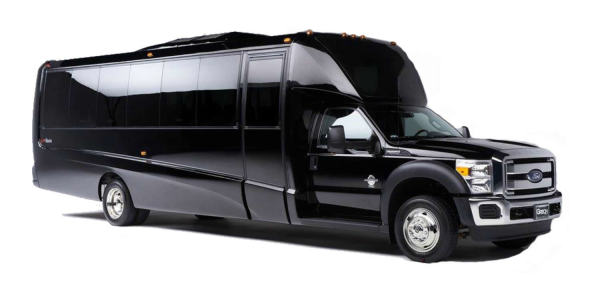
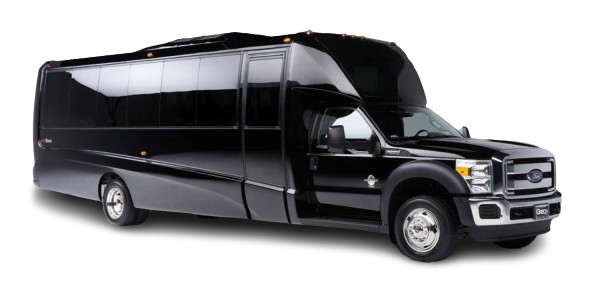
koko

diff --git a/utils/index.ts b/utils/index.ts
@@ -26,39 +26,34 @@ export default imageByIndex;
 export const vehicles: any[] = [
   {
     image:
-      "https://res.cloudinary.com/dxvf93ovn/image/upload/v1710453826/alexlimoimg/bus_car_q3cdv1.png",
+      "https://res.cloudinary.com/dxvf93ovn/image/upload/v1710473579/alexlimoimg/bus_car_mf08ez.png",
     name: "22 Passenger Executive Minibus",
     passengers: 22,
     bags: 22,
-    // price: 180.14,
     price: "Request a Quote",
   },
   {
     image:
-      // "https://res.cloudinary.com/dxvf93ovn/image/upload/v1706929860/lincolnNavigator_io4nn6.png",
-      "https://res.cloudinary.com/dxvf93ovn/image/upload/v1710454351/alexlimoimg/lincolnNavigator_vl4zhw.jpg",
+      "https://res.cloudinary.com/dxvf93ovn/image/upload/v1710473805/alexlimoimg/lincolnNavigator_zcvthv.png",
     name: "Cadillac Escalade ESV",
     passengers: 6,
     bags: 6,
-    // price: 180.14,
     price: "Request a Quote",
   },
   {
     image:
-      "https://res.cloudinary.com/dxvf93ovn/image/upload/v1710441887/alexlimoimg/5bc458ebc897c_nmcpgs.jpg",
+      "https://res.cloudinary.com/dxvf93ovn/image/upload/v1710473700/alexlimoimg/cadillacxts_erdtsh.png",
     name: "Cadillac XTS",
     passengers: 2,
     bags: 3,
-    // price: 180.14,
     price: "Request a Quote",
   },
   {
     image:
-      "https://res.cloudinary.com/dxvf93ovn/image/upload/v1706929861/van_sprinter_lligkw.png",
-    name: "SPRINTER VAN",
-    passengers: 10,
-    bags: 8,
-    // price: 110.0,
+      "https://res.cloudinary.com/dxvf93ovn/image/upload/v1710474291/alexlimoimg/38passenger_tbgnvk.png",
+    name: "38 Passenger Executive Minibus",
+    passengers: 38,
+    bags: 38,
     price: "Request a Quote",
   },
 ];

diff --git a/components/FormFiles/PeopleForm.tsx b/components/FormFiles/PeopleForm.tsx
@@ -131,13 +131,12 @@ React.useEffect(() => {
                 {vehicleSelected === false?
                 vehicles.map((el,index)=>(
                   <div className="col-span-1" key={index} onClick={()=> onVehicleSelected(el)} >
-                    <Card    isFooterBlurred className=" hover:drop-shadow-xl w-full h-[300px]">
-                    <CldImage
-                        width="600"
-                      height="600"
+                    <Card isFooterBlurred className="relative hover:drop-shadow-xl w-full h-[300px]">
+                      <CldImage
+                        fill
                       alt="alexlimo"
                         src={el?.image}
-                      className="object-contain"
+                      className="object-contain object-center"
                     />
                     <CardFooter className="absolute bg-black/40 bottom-0 z-10 border-t-1 border-default-600 dark:border-default-100">
                       <div className="flex flex-grow gap-2 items-center">

diff --git a/app/corporations/page.tsx b/app/corporations/page.tsx
@@ -1,5 +1,6 @@
 import Link from "next/link";
 import private_driver from "@/public/corporate page pic 03142024 three.jpg";
+import corp2 from '@/public/createaccountcorp.jpg'
 import Image from "next/image";
 import ad from "@/public/corporation_banner.jpg";
 import React from "react";
@@ -51,7 +52,7 @@ export default function CorporationsPage() {
         <div className="h-1/2 relative max-sm:h-1/2 max-sm:w-full max-md:w-1/2 max-md:h-full max-lg:w-1/2 max-lg:h-full lg:w-3/5 lg:h-full">
           <Image
             sizes="(max-width: 640px) 100vw, (max-width: 768px) 50vw, (max-width: 1024px) 33.3vw, 100vw"
-            src={private_driver}
+            src={corp2}
             quality={100}
             alt="order driver"
             fill
